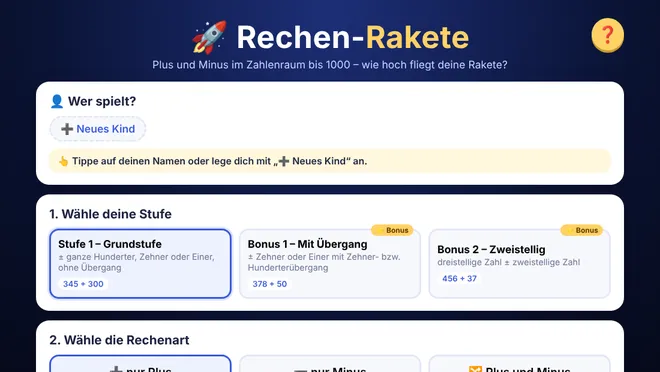
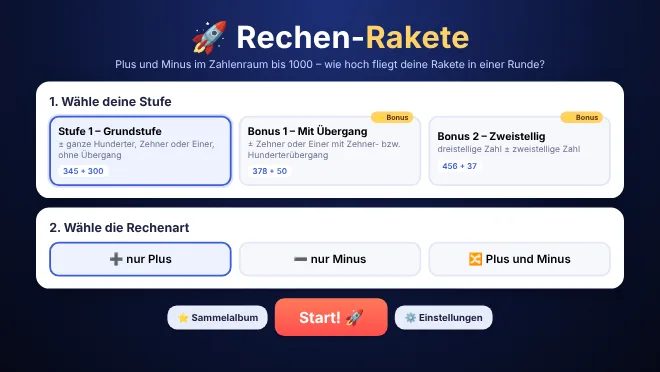
Rechen-Rakete auf neue Version (rechen-rakete-B) verlinkt, Vorschaubild aktualisiert
Claude-Session: https://claude.ai/code/session_01NN8jgooUsG5iWhEjBNkmtm

diff --git a/index.html b/index.html
@@ -130,16 +130,15 @@ footer{margin-top:34px;display:flex;flex-wrap:wrap;gap:8px 18px;justify-content:
   </article>
 
   <article class="game">
-    <a class="thumb" href="https://aurora-lernspiele.github.io/rechen-rakete/" tabindex="-1" aria-hidden="true">
+    <a class="thumb" href="https://aurora-lernspiele.github.io/rechen-rakete-B/" tabindex="-1" aria-hidden="true">
       <img src="img/rechen-rakete.webp" alt="" width="660" height="372" loading="lazy">
     </a>
     <div class="body">
       <h3>Rechen-Rakete</h3>
       <div class="pills"><span class="pill">3. Klasse</span><span class="pill alt">Mathematik</span></div>
-      <p>Plus und Minus im Zahlenraum bis 1000: Je schneller du rechnest, desto höher fliegt deine Rakete. Mit Bonusstufen und Klassen-Duell.</p>
+      <p>Plus und Minus im Zahlenraum bis 1000: Jede richtige Aufgabe füllt den Tank, und wenn die Zeit um ist, zeigt die Rakete, wie hoch du gekommen bist. Mit Bonusstufen, Sammelalbum und Fehler-Übungsrunde.</p>
       <div class="actions">
-        <a class="play" href="https://aurora-lernspiele.github.io/rechen-rakete/"><svg viewBox="0 0 24 24" aria-hidden="true"><path d="M7 4.5v15l12.5-7.5z" fill="currentColor"/></svg>Spielen</a>
-        <a class="doc" href="https://aurora-lernspiele.github.io/rechen-rakete/Kurzinfo.pdf" target="_blank" rel="noopener">Kurzinfo (PDF)</a>
+        <a class="play" href="https://aurora-lernspiele.github.io/rechen-rakete-B/"><svg viewBox="0 0 24 24" aria-hidden="true"><path d="M7 4.5v15l12.5-7.5z" fill="currentColor"/></svg>Spielen</a>
       </div>
     </div>
   </article>
